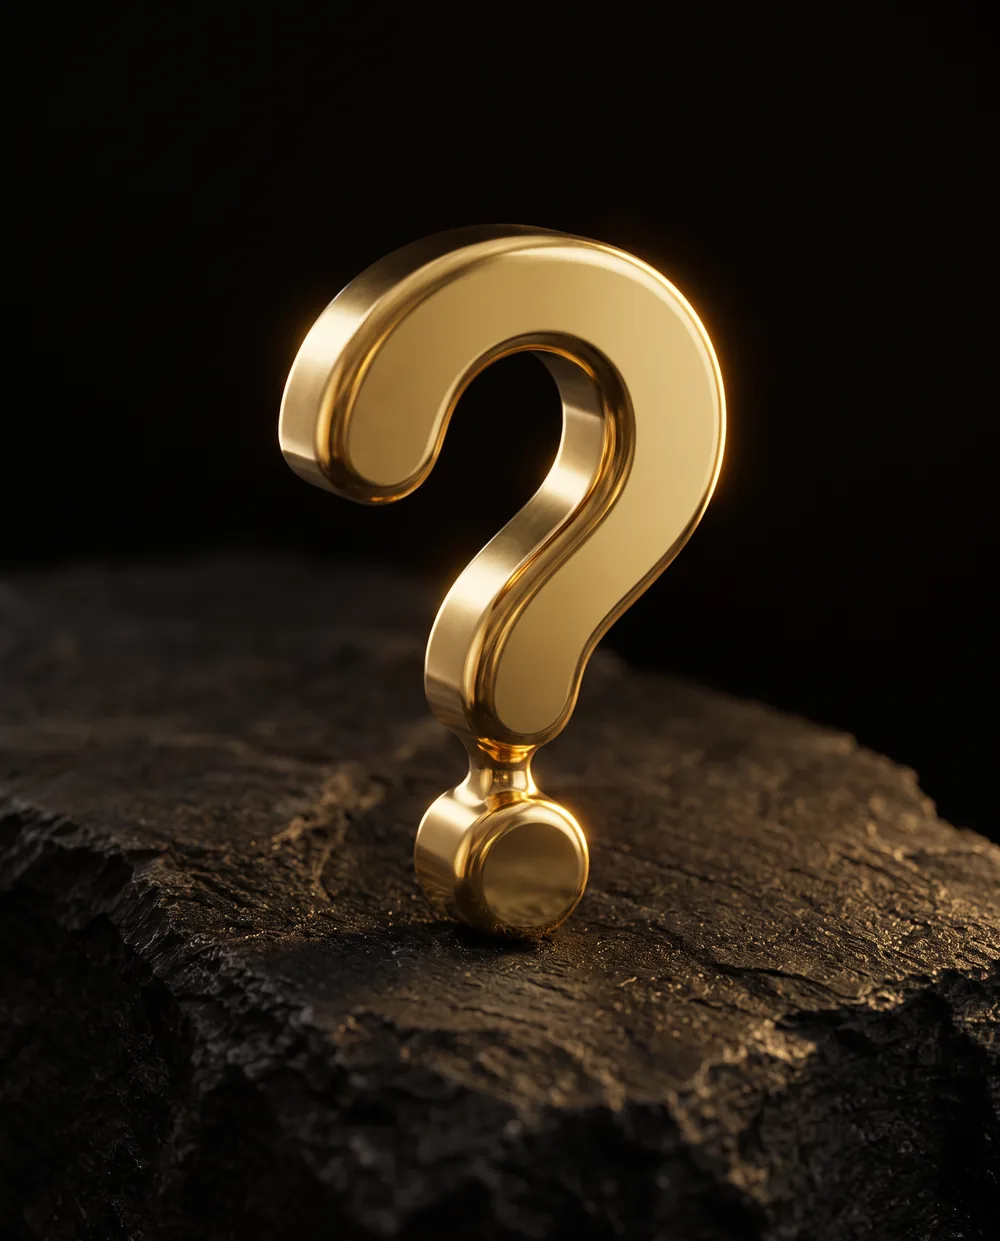
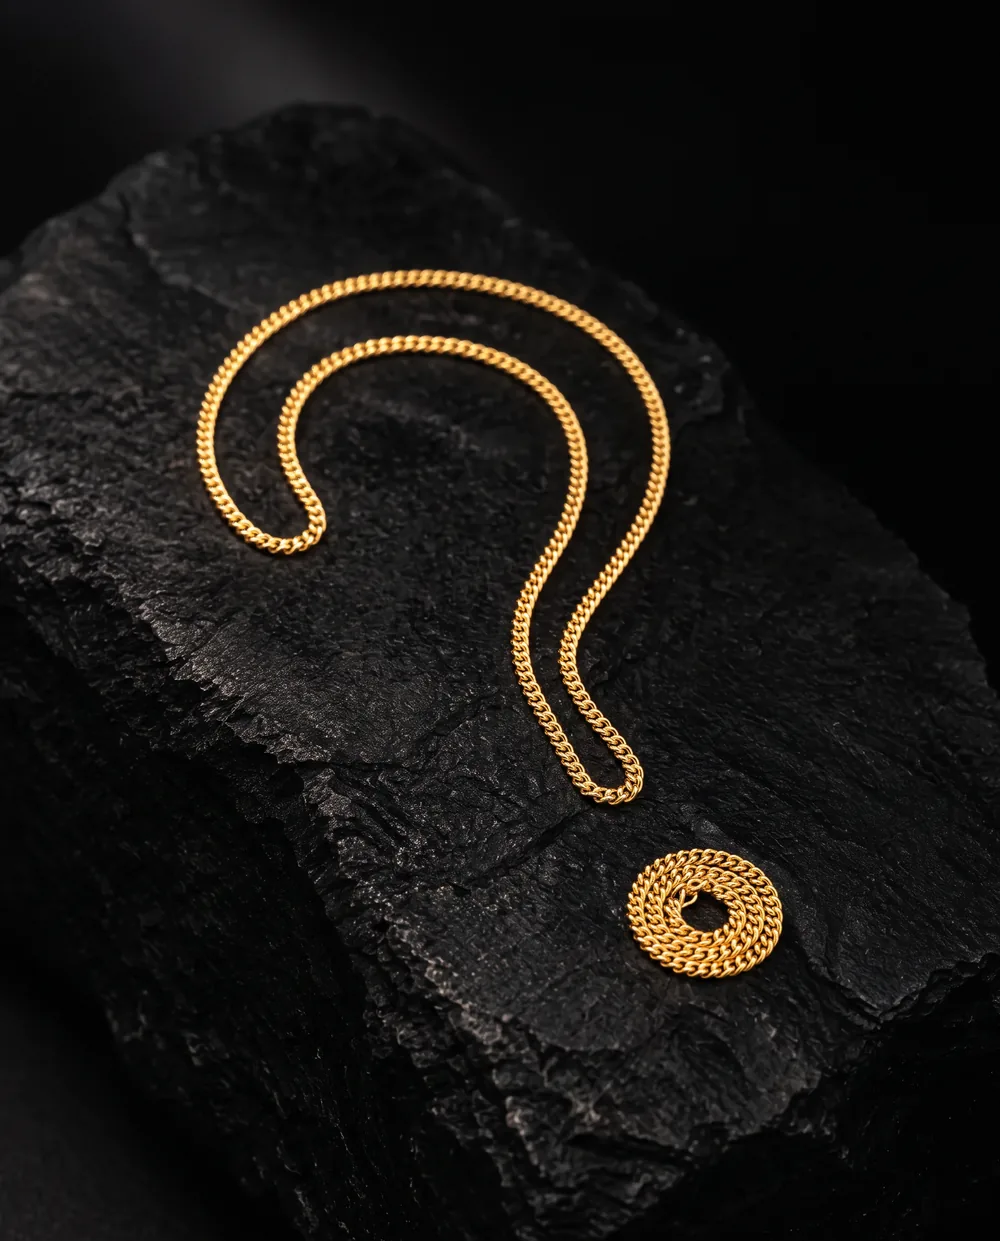
feat(slj): the 3D S&L mark opens the About page; chain question mark for FAQ
Shaun's original 3D logo (lib/sl-mark.js) returns on a black stage at the top of
/about through AboutMark: it turns slowly, follows a drag, and a tap takes it
apart and sets it back; no stars from the old hero. three.js loads only when the
stage nears the screen and only with WebGL; the poster stands in until then and
under reduced motion. The menu's FAQ photo is now the gold chain laid as a
question mark (Shaun's pick).

Claude-Session: https://claude.ai/code/session_01NAPrKP38SJLoJ3zrbpFQzn

diff --git a/clients/sl-jewellers/src/components/AboutMark.tsx b/clients/sl-jewellers/src/components/AboutMark.tsx
@@ -1,0 +1,103 @@
+"use client";
+
+import { useEffect, useRef, useState } from "react";
+import type { SlMarkHandle } from "@/lib/sl-mark";
+
+/**
+ * The S&L mark in 3D on /about (Shaun, 6 Oct 2026: "that specific 3D logo ... somewhere
+ * premium", without the old hero's background). The same model as the first hero
+ * (lib/sl-mark.js): it turns slowly on its own, follows a drag, and a tap takes it apart
+ * into the paths it is drawn from and sets it back. No stars, a faint reflection on
+ * wide screens. three.js loads only when the stage comes near the screen and only if the
+ * device has WebGL; until its first frame, and under reduced motion, the still poster
+ * of the same mark is the picture.
+ */
+export default function AboutMark() {
+  const stage = useRef<HTMLDivElement>(null);
+  const inst = useRef<SlMarkHandle | null>(null);
+  const [touched, setTouched] = useState(false);
+
+  useEffect(() => {
+    const el = stage.current;
+    if (!el) return;
+    if (matchMedia("(prefers-reduced-motion: reduce)").matches) return;
+    const mobile = matchMedia("(max-width: 767px)").matches;
+    const coarse = matchMedia("(pointer: coarse)").matches;
+    let cancelled = false;
+    const hasWebGL = () => {
+      try {
+        const c = document.createElement("canvas");
+        return !!(c.getContext("webgl2") || c.getContext("webgl"));
+      } catch {
+        return false;
+      }
+    };
+    const load = async () => {
+      if (!hasWebGL()) return;
+      try {
+        const mod = await import("@/lib/sl-mark");
+        if (cancelled) return;
+        inst.current = mod.mount(el, {
+          initialRotation: mod.POSTER_ROTATION,
+          idleSpin: true,
+          idleYaw: Infinity,
+          idleSpeed: mobile ? 0.3 : 0.22,
+          maxPixelRatio: 1.75,
+          curveSegments: mobile ? 8 : 20,
+          bevelSegments: mobile ? 2 : 5,
+          idleFps: mobile ? 30 : 0,
+          touchAction: coarse ? "pan-y" : "none",
+          sideDarken: 0.55,
+          sideRough: 0.1,
+          stars: 0,
+          reflection: mobile ? 0 : 0.22,
+          reflectionFade: 0.35,
+          horizon: 0,
+          fog: 0,
+          cameraZ: 3.6,
+          cameraZPortrait: 4.5,
+          offsetY: 0.04,
+          burst: true,
+          burstAuto: 1500,
+          burstInterval: 0,
+          burstRadius: 0.45,
+          burstRadiusPortrait: 0.28,
+          onFirstFrame: () => el.classList.add("is-live"),
+          onInteract: () => setTouched(true),
+        });
+        inst.current.start();
+      } catch {
+        /* the poster stays */
+      }
+    };
+    const io = new IntersectionObserver(
+      ([e]) => {
+        if (e.isIntersecting) {
+          io.disconnect();
+          load();
+        }
+      },
+      { rootMargin: "200px" },
+    );
+    io.observe(el);
+    return () => {
+      cancelled = true;
+      io.disconnect();
+      inst.current?.destroy();
+      inst.current = null;
+    };
+  }, []);
+
+  return (
+    <div ref={stage} className="amark-stage">
+      <picture>
+        <source type="image/avif" srcSet="/images/sl-mark-poster-480.avif 480w, /images/sl-mark-poster-720.avif 720w, /images/sl-mark-poster-1000.avif 1000w" sizes="(max-width: 767px) 70vw, 520px" />
+        <source type="image/webp" srcSet="/images/sl-mark-poster-480.webp 480w, /images/sl-mark-poster-720.webp 720w, /images/sl-mark-poster-1000.webp 1000w" sizes="(max-width: 767px) 70vw, 520px" />
+        <img className="amark-poster" src="/images/sl-mark-poster-720.webp" alt="" width={720} height={720} decoding="async" />
+      </picture>
+      <p className={`amark-hint${touched ? " is-gone" : ""}`} aria-hidden="true">
+        Drag to turn it · Tap to take it apart
+      </p>
+    </div>
+  );
+}

diff --git a/clients/sl-jewellers/src/app/globals.css b/clients/sl-jewellers/src/app/globals.css
@@ -1111,3 +1111,21 @@ html[data-menu-open] .mC-ring { opacity: 1; transform: none; transition-delay: 3
 }
 .backlink:focus-visible { outline: 2px solid var(--color-gold); outline-offset: 4px; border-radius: 999px; }
 @media (prefers-reduced-motion: reduce) { .backlink-disc, .backlink-disc::before, .backlink-disc svg, .backlink-word { transition: none; } }
+
+
+/* About: the S&L mark in 3D on a black stage (AboutMark.tsx), with small corner type */
+.amark { position: relative; height: clamp(520px, 78vh, 860px); overflow: hidden; background: var(--color-black); border-bottom: 1px solid var(--color-line-dark); }
+@media (max-width: 767px) { .amark { height: clamp(440px, 66vh, 640px); } }
+.amark-stage { position: absolute; inset: 0; }
+.amark-stage canvas { position: absolute; inset: 0; width: 100%; height: 100%; opacity: 0; transition: opacity 900ms var(--ease-out); }
+.amark-stage.is-live canvas { opacity: 1; }
+.amark-poster { position: absolute; inset: 0; margin: auto; width: min(58vh, 520px, 74vw); height: auto; aspect-ratio: 1; object-fit: contain; pointer-events: none; transition: opacity 900ms var(--ease-out); }
+.amark-stage.is-live .amark-poster { opacity: 0; }
+.amark-tl, .amark-bl, .amark-hint { position: absolute; z-index: 2; margin: 0; font-size: 10.5px; font-weight: 500; font-stretch: 108%; letter-spacing: 0.18em; text-transform: uppercase; line-height: 1.7; color: rgba(244, 242, 238, 0.82); pointer-events: none; }
+.amark-tl { left: var(--gutter); top: 32px; }
+.amark-idx { color: var(--color-gold); }
+.amark-bl { left: var(--gutter); bottom: 28px; }
+.amark-hint { right: var(--gutter); bottom: 28px; color: rgba(244, 242, 238, 0.6); transition: opacity 600ms var(--ease-out); }
+.amark-hint.is-gone { opacity: 0; }
+@media (max-width: 767px) { .amark-hint { left: var(--gutter); right: auto; bottom: 84px; } }
+@media (prefers-reduced-motion: reduce) { .amark-hint { display: none; } }

diff --git a/clients/sl-jewellers/src/app/about/page.tsx b/clients/sl-jewellers/src/app/about/page.tsx
@@ -5,6 +5,7 @@ import { BUSINESS, LAUNCH } from "@/lib/content";
 import { readAbout } from "@/lib/about";
 import Reveal from "@/components/Reveal";
 import SplitHeading from "@/components/motion/SplitHeading";
+import AboutMark from "@/components/AboutMark";
 
 export const metadata: Metadata = {
   title: "About us",
@@ -13,14 +14,26 @@ export const metadata: Metadata = {
 };
 
 /**
- * About S&L, its own page (6 Oct 2026, Shaun: not on the homepage, in the menu). The copy is
- * content/about.md, unchanged; the picture is the shop's own interior.
+ * About S&L, its own page (6 Oct 2026, Shaun: not on the homepage, in the menu). It opens on
+ * the S&L mark in 3D (AboutMark: turn it, tap it apart), then the copy (content/about.md,
+ * unchanged) beside the shop's own interior photo, cleaned up.
  */
 export default function AboutPage() {
   const b = BUSINESS;
   const { paragraphs, todos } = readAbout();
   return (
     <div className="on-black">
+      <section className="amark" aria-label="The S&L mark">
+        <AboutMark />
+        <p className="amark-tl" aria-hidden="true">
+          <span className="amark-idx">(S&amp;L)</span> The mark of the shop
+        </p>
+        <p className="amark-bl" aria-hidden="true">
+          {b.address.street}
+          <br />
+          {b.address.town} {b.address.postcode}
+        </p>
+      </section>
       <section className="section" aria-labelledby="about-title">
         <div className="wrap about-page">
           <Reveal>

diff --git a/clients/sl-jewellers/src/components/sections/Hero.tsx b/clients/sl-jewellers/src/components/sections/Hero.tsx
@@ -15,8 +15,8 @@ import HeroCorners from "./HeroCorners";
  * came out of the hero); small corner type (HeroCorners) says what the shop does, where it is
  * and whether it is open. The page keeps its h1 for screen readers and search, visually hidden.
  *
- * The 3D mark that used to live here (HeroMark.tsx, lib/sl-mark.js) is kept in the repo,
- * unused, until this hero is signed off.
+ * The 3D mark that used to live here (lib/sl-mark.js) now opens the About page
+ * (AboutMark.tsx); HeroMark.tsx, its scroll-scrubbed hero wrapper, is unused.
  */
 const P = "/images/hero/rings";
 const land = (f: "first" | "last", ext: string) => [1280, 1920, 2560].map((w) => `${P}-${f}-land-${w}.${ext} ${w}w`).join(", ");

diff --git a/clients/sl-jewellers/assets/SOURCES.md b/clients/sl-jewellers/assets/SOURCES.md
@@ -146,5 +146,5 @@ Update 5 Oct 2026: `reel-00.mp4` re-encoded with its soundtrack kept (AAC 96 kb/
 
 | `public/images/services/repairs.2026-10-06-2.webp` (the exchange and sourcing images of this set were replaced the same day, row below) | AI-generated product shots for the three service tiles, modelled on the kinds of piece S&L sells: a gold Cuban link chain with a gold blue-bezel diver's watch on black stone (buying, selling, part-exchange), a steel black-bezel sports watch in an open presentation box (sourcing), a laser welder joining a link of an engraved gold belcher bracelet (repairs) | Higgsfield, GPT Image 2.5, high, 2k, 3:2, generated 6 Oct 2026 on Shaun's instruction ("modernised", "tailored to the products they sell"), jobs e0104479…, 449a3b90…, dc26d37b…. References: S&L's own product photos `pieces/watches/10-2b53eb0c.jpg`, `pieces/chains/56-750751bb.jpg`, `pieces/watches/05-1983460d.jpg`, `pieces/bracelets/01-0931defb.jpg`, used for style only, with logos and writing removed in the prompt | **Not S&L stock and not the shop's work**: illustrations of the service, never captioned as a real piece or repair. No logos, brand names, people or text in frame (the watch dials were checked by eye). 2048x1360 PNG → 1600w WebP q82. Replaced the first set (balance, ring clamp, micro torch), which Shaun found old-fashioned. |
 | `public/images/services/exchange.2026-10-06-3.webp`, `sourcing.2026-10-06-3.webp` | AI-generated scenes built on S&L's own stock photos: the yellow-gold Rolex Submariner with blue dial and bezel (`pieces/watches/10-2b53eb0c.jpg`) lying across the gold Cuban link chain (`pieces/chains/56-750751bb.jpg`) on black stone; the steel Rolex GMT-Master II 126710GRNR 'Bruce Wayne' (`pieces/watches/05-1983460d.jpg`, sold as a full set) on the cushion of an open green Rolex presentation box | Higgsfield, Nano Banana 2.1, 2k, 3:2, thinking high, generated 6 Oct 2026 on Shaun's instruction ("a real Rolex they sell", "the Rolex box with the real Rolex inside"), jobs 351fccf3…, 0dd6a442…. References: the two stock photos above, the chain, and the previous `-2` images for composition and light. Two variants each; picked by checking the dial printing, bezel numerals and hands at 100% | **Staged illustrations of real stock pieces**, not photographs of the shop. The Rolex name and crown appear because they are on the pieces and the box S&L sells; the site states it is not affiliated with the brands it sells. 2528x1696 PNG → 1600w WebP q82. |
-| `public/images/menu/contact.webp`, `faq.webp` | AI-generated stills for the menu: a black envelope sealed with gold wax pressed with the S&L crown-and-diamond mark, beside a black and gold fountain pen (Contact); a polished gold question mark on black stone (FAQ) | Higgsfield, Nano Banana 2.1, 2k, 4:5, generated 6 Oct 2026 on Shaun's instruction (Contact should show "something that relates to contact", FAQ "some form of question thing"), jobs acb48248…, bca44801…. References: `public/logo-lockup.png` (for the seal) and `services/exchange.2026-10-06-2.webp` (light and stone) | Illustrations, not products or the shop. 1856x2304 PNG → 1000w WebP q82. |
+| `public/images/menu/contact.webp`, `faq.webp` | AI-generated stills for the menu: a black envelope sealed with gold wax pressed with the S&L crown-and-diamond mark, beside a black and gold fountain pen (Contact); a fine gold curb chain laid on black stone in the shape of a question mark (FAQ; Shaun's pick of two) | Higgsfield, Nano Banana 2.1, 2k, 4:5, generated 6 Oct 2026 on Shaun's instruction (Contact should show "something that relates to contact", FAQ "some form of question thing"), jobs acb48248…, ac2ed936…. References: `public/logo-lockup.png` (for the seal) and `services/exchange.2026-10-06-2.webp` (light and stone) | Illustrations, not products or the shop. 1856x2304 PNG → 1000w WebP q82. |
 | `public/images/shop-interior.2026-10-06.webp` | S&L's own interior photo (`public/images/shop-interior.jpg`), upscaled and retouched: the man standing at the left counter removed and the wall and counter behind him rebuilt, the black bars at top and bottom cropped. Nothing about the shop is changed | Higgsfield: Bytedance upscale to 4K (job a271cf12…), then Nano Banana 2.1 retouch (job 57077108…), 6 Oct 2026, on Shaun's instruction ("remove the guy in there, if possible") | The shop's own photograph, cleaned up; used on /about and for About in the menu. 1696x2528 PNG → 1200w WebP q84. |
